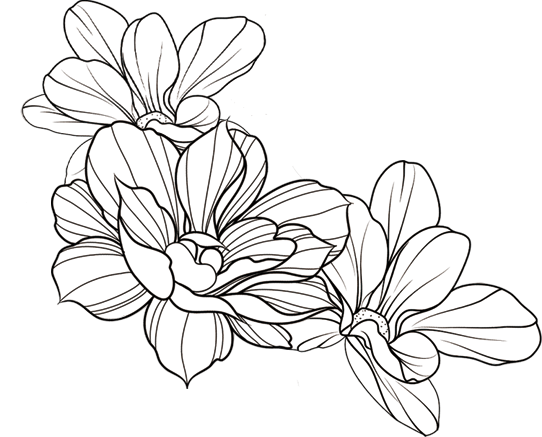
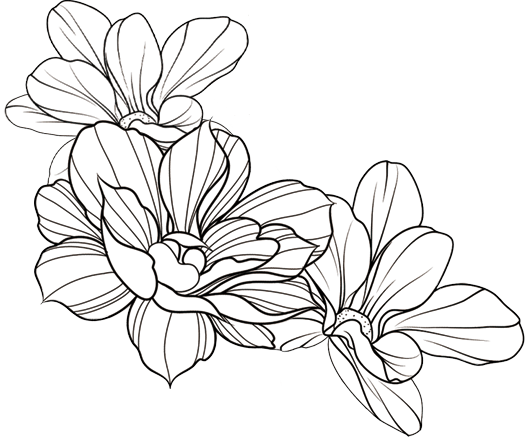
chore: 优化仲夏图片尺寸

Changed region(s): [[0.0, 0.0, 1.0, 1.0], [0.8838, 0.6247, 0.9448, 0.6842], [0.9448, 0.6842, 0.9752, 0.714]]

diff --git a/src/render/zhongxia/render.ts b/src/render/zhongxia/render.ts
@@ -11,13 +11,6 @@ const BLOCK_SIZE = Decimal.div(39, PIXEL_RATIO).toNumber();
 const BLOCK_PADDING = Decimal.div(10, PIXEL_RATIO).toNumber();
 const RECT_SIZE = Decimal.div(60, PIXEL_RATIO).toNumber();
 
-// 右上角花朵图片
-const IMAGE_RTFLOWER_WIDTH = 531;
-const IMAGE_RTFLOWER_HEIGHT = 339;
-// 左下角花朵图片
-const IMAGE_LBFLOWER_WIDTH = 542;
-const IMAGE_LBFLOWER_HEIGHT = 437;
-
 // 麦穗
 const wheatearData = `
 <svg xmlns="http://www.w3.org/2000/svg" xmlns:xlink="http://www.w3.org/1999/xlink" width="39.11962890625" height="78.45852661132812" viewBox="0 0 39.11962890625 78.45852661132812" fill="none">
@@ -147,17 +140,20 @@ class Render extends RectRadius implements IRenderCarpet {
 	private _createLBFlower(props: RenderProps) {
 		this.lbFlower?.remove();
 
-		const imageWidth = IMAGE_LBFLOWER_WIDTH * this.imageScale;
-		const imageHeight = IMAGE_LBFLOWER_HEIGHT * this.imageScale;
+		// 左下角花朵
+		this.lbFlower = new this.scope.Raster(lbFlower);
+
+		const imageSize = this.lbFlower.bounds.size;
+		const imageWidth = imageSize.width * this.imageScale;
+		const imageHeight = imageSize.height * this.imageScale;
 
 		const arcStartPoint = new this.scope.Point(0, props.height - this.radii.leftBottom);
 		const arcEndPoint = new this.scope.Point(this.radii.leftBottom, props.height);
 		const arcCenterPoint = new this.scope.Point(this.radii.leftBottom, props.height - this.radii.leftBottom);
 		const middlePoint = this.calculateArcCenter(arcStartPoint, arcEndPoint, arcCenterPoint);
-		const position = new this.scope.Point(-14 + imageWidth / 2 + middlePoint.x, middlePoint.y - imageHeight / 2);
+		const pointY = Math.min(props.height, middlePoint.y * 1.1);
+		const position = new this.scope.Point(imageWidth / 2 + middlePoint.x * 0.8, pointY - imageHeight / 2);
 
-		// 左下角花朵
-		this.lbFlower = new this.scope.Raster(lbFlower);
 		this.lbFlower.position = position;
 		this.lbFlower.scale(this.imageScale);
 		this.lbFlower.bringToFront();
@@ -167,8 +163,12 @@ class Render extends RectRadius implements IRenderCarpet {
 	private _createRTFlower(props: RenderProps) {
 		this.rtFlower?.remove();
 
-		const imageWidth = IMAGE_RTFLOWER_WIDTH * this.imageScale;
-		const imageHeight = IMAGE_RTFLOWER_HEIGHT * this.imageScale;
+		// 右上角花朵
+		this.rtFlower = new this.scope.Raster(rtFlower);
+
+		const imageSize = this.rtFlower.bounds.size;
+		const imageWidth = imageSize.width * this.imageScale;
+		const imageHeight = imageSize.height * this.imageScale;
 
 		const arcStartPoint = new this.scope.Point(props.width - this.radii.rightTop, 0);
 		const arcEndPoint = new this.scope.Point(props.width, this.radii.rightTop);
@@ -177,8 +177,6 @@ class Render extends RectRadius implements IRenderCarpet {
 
 		const position = new this.scope.Point(middlePoint.x - imageWidth / 2, 21 + imageHeight / 2 + middlePoint.y);
 
-		// 右上角花朵
-		this.rtFlower = new this.scope.Raster(rtFlower);
 		this.rtFlower.position = position;
 		this.rtFlower.scale(this.imageScale);
 		this.rtFlower.bringToFront();
